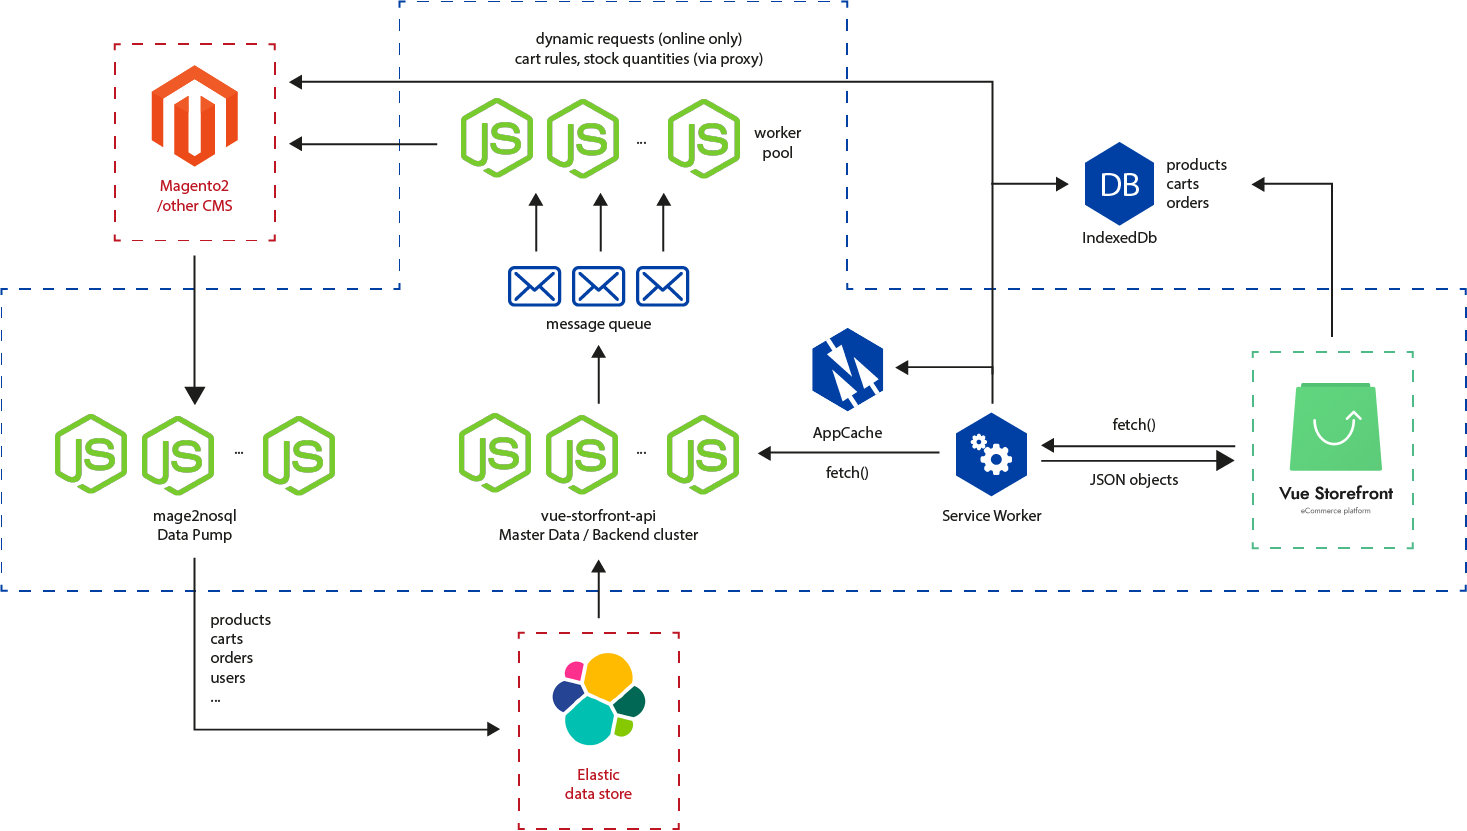
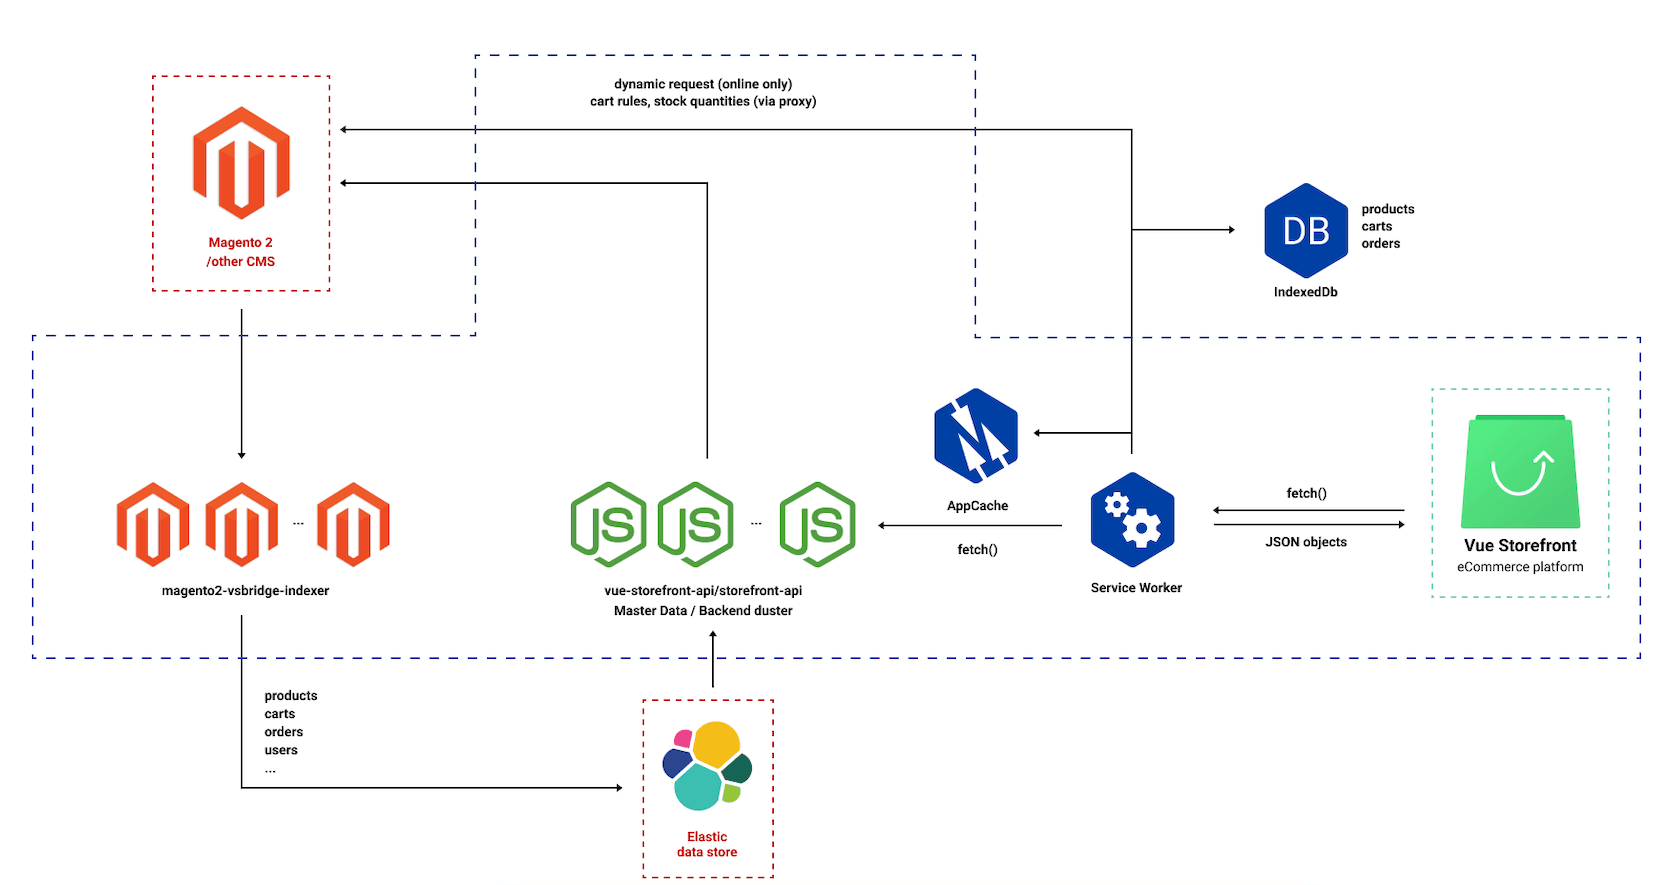
Updated  insfrastructure's schema

diff --git a/docs/guide/general/introduction.md b/docs/guide/general/introduction.md
@@ -9,7 +9,7 @@ Vue Storefront is a rather complex solution with a lot of possibilities. Learnin
 Vue Storefront is a headless and backend-agnostic eCommerce [Progressive Web App (PWA)](https://developers.google.com/web/progressive-web-apps/) written in Vue.js. The fact that it's using headless architecture allows Vue Storefront to connect with any eCommerce platform so it can be a frontend PWA for Magento, Shopify, BigCommerce, WooCommerce and etc.
 
  It's a very popular [Open Source project](https://github.com/vuestorefront/vue-storefront) with a strong and growing community.
- 
+
 **Key features of Vue Storefront:**
 - Platform-agnostic
 - Focus on performance
@@ -28,7 +28,7 @@ Vue Storefront manages to be platform-agnostic thanks to the [vue-storefront-api
 It's a great strategy for migrations since you can easily migrate from one platform to another (or one version to another, e.g. Magento 1 to 2) without touching your frontend.
 
 
-![Architecture diagram](https://raw.githubusercontent.com/DivanteLtd/vue-storefront/master/docs/.vuepress/public/GitHub-Architecture-VS.png)
+![Architecture diagram](https://raw.githubusercontent.com/vuestorefront/vue-storefront/update-vsf1-infra-schema/docs/.vuepress/public/GitHub-Architecture-VS.png)
 
 The API connector works in two phases:
 - **data pump** ([mage2nosql](https://github.com/vuestorefront/mage2vuestorefront) in the image)  is pulling static data (catalog, orders, etc.) from your eCommerce platform to Vue Storefront Elasticsearch and changes its format to the one consumed by vue-storefront-api. Once finished pulling the data, you can display the product catalog in Vue Storefront. After pumping the data into Elasticsearch is done, it will stay in sync with changes made on the backend platform and update its content accordingly.
@@ -78,7 +78,7 @@ For your own implementation you should create a `local.json` file in the same di
 ## Building themes in Vue Storefront
 ![themes structure](https://cdn-images-1.medium.com/max/1200/1*jMel95nhs5UTIi2DQdeq4Q.png)
 
-While making themes in Vue Storefront, in most cases, all you need to do is create your own HTML and CSS markup. All the required business logic is exposed by the core with its core modules and can be easily injected into any of the theme components. 
+While making themes in Vue Storefront, in most cases, all you need to do is create your own HTML and CSS markup. All the required business logic is exposed by the core with its core modules and can be easily injected into any of the theme components.
 ![biz-logic](https://cdn-images-1.medium.com/max/1200/1*tMwC0smduKIwKh82jTiJmw.png)
 *The business logic from the core component can be easily injected into any theme component as a Vue.js mixin.*
 
